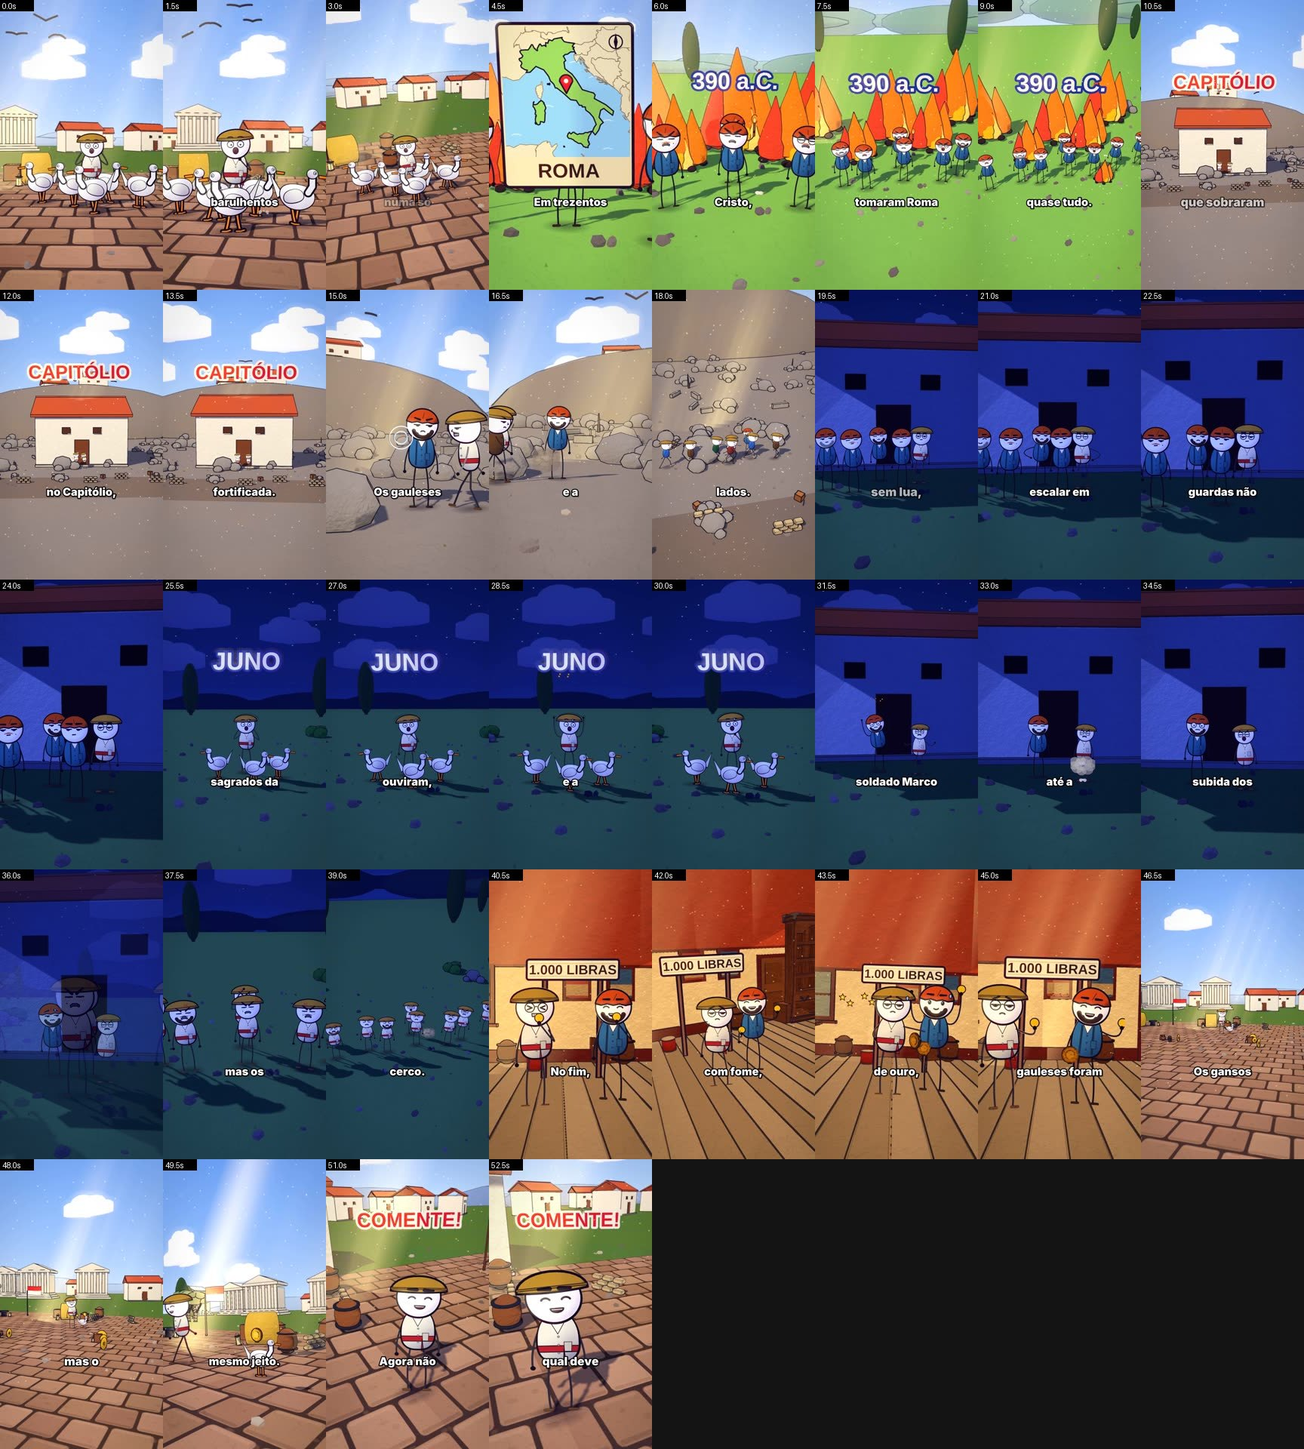
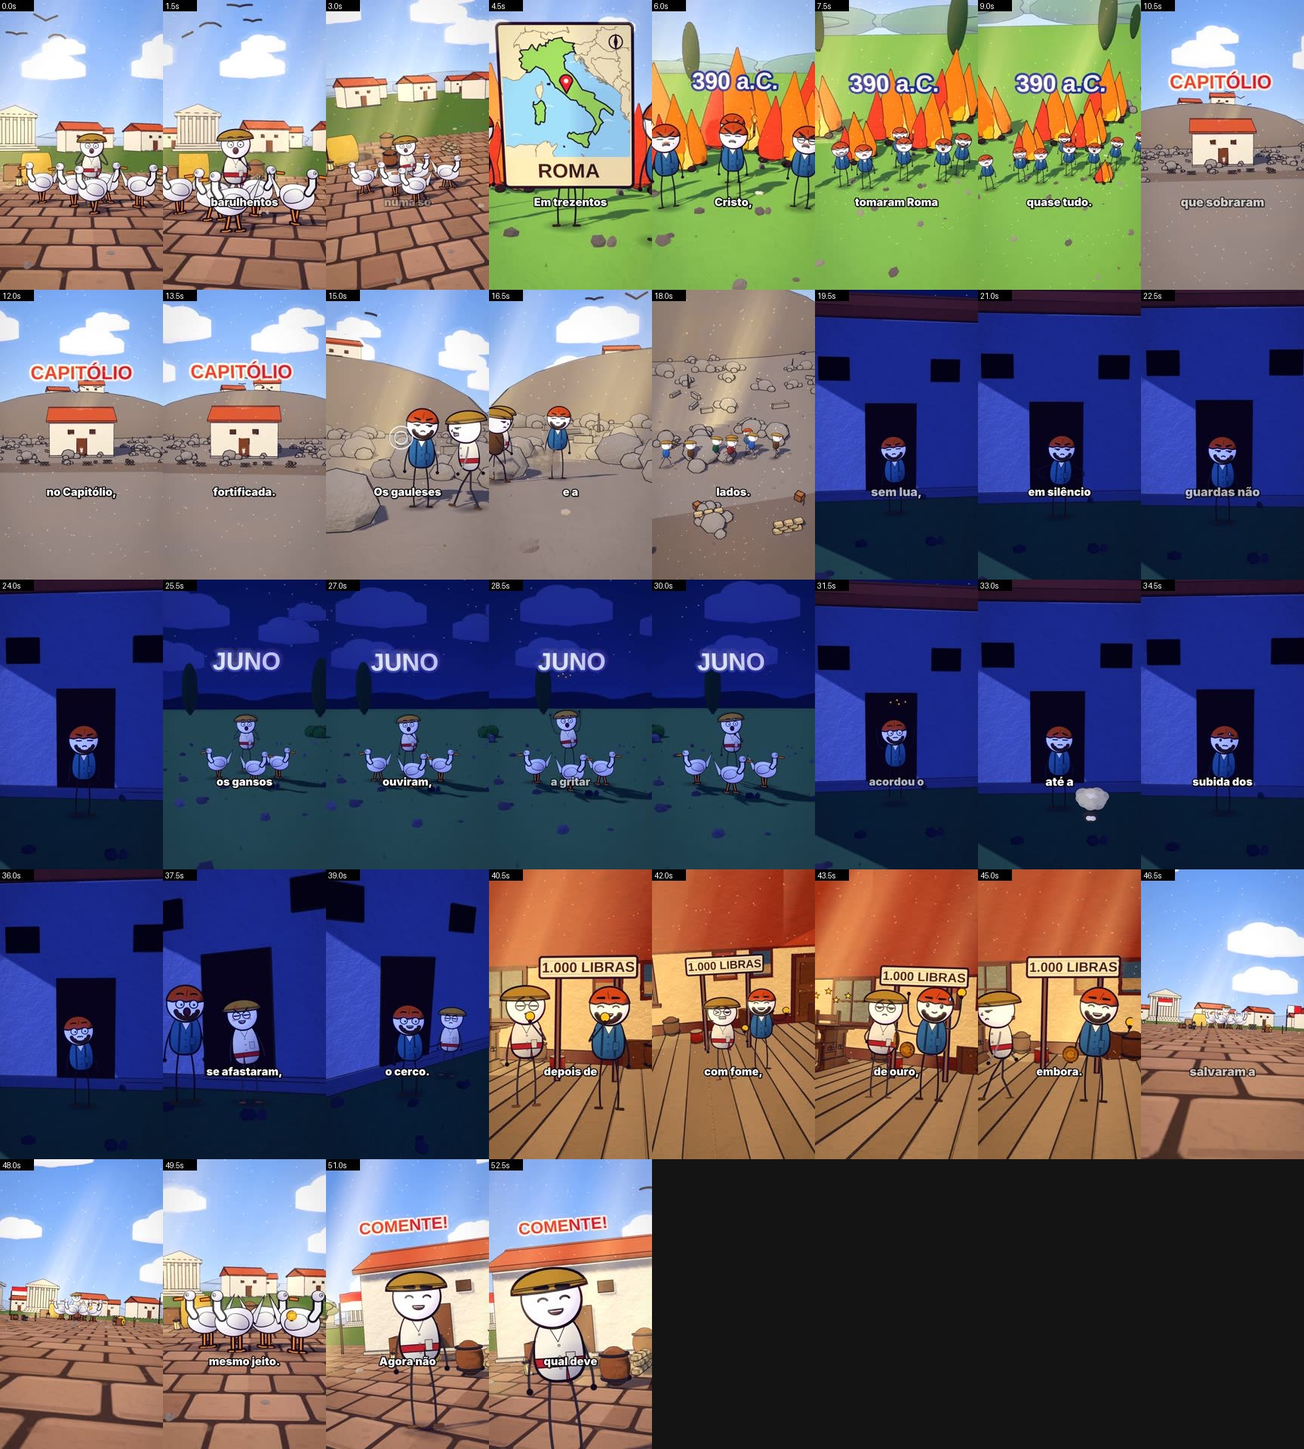
gansos390: refacao final entregue
Claude-Session: https://claude.ai/code/session_01HE8Dy2XpEMgdYAHCmWZFay

diff --git a/entregas/gansos390/folha2_producao.md b/entregas/gansos390/folha2_producao.md
@@ -11,6 +11,21 @@ Coordenadas de cada cena para modelagem, animacao e camera, com os RISCOS que o 
 - Objetos/modelos: goose
 - CONFERIR NA FOLHA DE CONTATO (o que a narracao cita tem que aparecer): bando, gansos
 - RISCOS: nenhum
+<!-- FICHA -->
+
+### FICHA TECNICA DA CENA (lugar, camera, personagens, objetos, efeitos, texto)
+- LOCAL: vila medieval; hora: dia
+- CAMERA: plano de grupo (3+ pessoas)
+- PERSONAGENS: ROM no centro, expressao shock; sem multidao; acao: fala/gesto
+- OBJETOS: so cenario (nenhum objeto da historia nesta cena)
+- EFEITO nuvem de fumaca nos pes: no chao, aos pes; entra no quadro +30 da cena
+- SOM: squeal@10
+- SOM: squeal@40
+- SOM: squeal@80
+- TAKES: 2 takes (troca de angulo a cada ~1.5 s, sem corte seco):
+  - take 1 (0.1-1.6 s): gira 8 graus para a direita, camera mais baixa, olhando um pouco de baixo, um pouco mais perto
+  - take 2 (1.6-3.0 s): gira 18 graus para a esquerda, camera mais alta, olhando um pouco de cima, um pouco mais longe
+<!-- /FICHA -->
 
 ## Cena b1 - Em trezentos e noventa antes de Cristo, os gauleses de Breno tomaram R...
 - Cenario: loc_campo | luz: day | clima: limpo
@@ -21,16 +36,43 @@ Coordenadas de cada cena para modelagem, animacao e camera, com os RISCOS que o 
 - Objetos/modelos: kit/fire
 - CONFERIR NA FOLHA DE CONTATO (o que a narracao cita tem que aparecer): breno, cristo, gauleses
 - RISCOS: nenhum
+<!-- FICHA -->
+
+### FICHA TECNICA DA CENA (lugar, camera, personagens, objetos, efeitos, texto)
+- LOCAL: loc_campo; hora: dia
+- CAMERA: revelacao (camera sobe e abre)
+- PERSONAGENS: GAU no centro, expressao angry, segura torch; multidao de 8 (GAU) ATRAS dos principais; acao: batalha
+- OBJETOS: so cenario (nenhum objeto da historia nesta cena)
+- EFEITO poeira nos pes: no chao, aos pes; entra no quadro +20 da cena
+- EFEITO clarao/explosao: na frente, na altura do peito do 1o personagem; entra no quadro +55 da cena
+- SOM: thump@20
+- SOM: thump@55
+- TEXTO NA TELA: "390 a.C." flutuando no alto, na palavra 1 da frase
+- MAPA: ROMA (cobre a tela 1-2 s)
+- TAKES: sequencia de acao em 3 cameras (4.7 s): 1) plano medio baixo na tropa (30%); 2) travelling lateral acompanhando a acao (25%); 3) grua subindo ate a vista de cima do campo (45%)
+<!-- /FICHA -->
 
 ## Cena b2 - Os romanos que sobraram se trancaram no Capitólio, uma colina fortific...
 - Cenario: mountain | luz: day | clima: limpo
 - Camera: wide = ABERTO fixo
 - Takes: 1 tomada continua, sem corte (camera abre/gira devagar)
-- Personagens principais (2): ROM (variante 0, expressao nervous); ROM (variante 1, expressao pained) | multidao: 0 de 
+- Personagens principais (1): ROM (variante 0, expressao nervous) | multidao: 0 de 
 - Animacao: reagir
 - Objetos/modelos: buildings/castle_tower
 - CONFERIR NA FOLHA DE CONTATO (o que a narracao cita tem que aparecer): capitolio, colina, romanos
 - RISCOS: nenhum
+<!-- FICHA -->
+
+### FICHA TECNICA DA CENA (lugar, camera, personagens, objetos, efeitos, texto)
+- LOCAL: encosta de montanha; hora: dia
+- CAMERA: plano aberto (cenario inteiro); plano aberto mirando o castle_tower (alvo z -3.9, camera a 98.7 m, altura 6.0 m), sem multidao na frente
+- PERSONAGENS: ROM no centro, expressao nervous; sem multidao; acao: fala/gesto
+- OBJETO buildings/castle_tower: FUNDO, centro (objeto principal da cena); tamanho na tela: 30% da altura da tela; estado: PARADO; 24.6 m de altura x 13.4 m: ATRAS dos personagens, de lado, ocupando a largura do quadro (a ponta pode sair da tela); personagens na frente, menores
+- TEXTO NA TELA: "CAPITÓLIO" flutuando no alto, na palavra 1 da frase
+- TAKES: 2 takes (troca de angulo a cada ~1.6 s, sem corte seco):
+  - take 1 (9.9-11.5 s): gira 16 graus para a direita, camera mais baixa, olhando um pouco de baixo, um pouco mais perto
+  - take 2 (11.5-13.1 s): gira 14 graus para a esquerda, camera mais alta, olhando um pouco de cima, um pouco mais longe
+<!-- /FICHA -->
 
 ## Cena b3 - Os gauleses cercaram a colina, e a fome apertou os dois lados.
 - Cenario: mountain | luz: day | clima: limpo
@@ -41,16 +83,39 @@ Coordenadas de cada cena para modelagem, animacao e camera, com os RISCOS que o 
 - Objetos/modelos: -
 - CONFERIR NA FOLHA DE CONTATO (o que a narracao cita tem que aparecer): colina, dois, fome, gauleses
 - RISCOS: nenhum
+<!-- FICHA -->
 
-## Cena b4 - Numa noite sem lua, eles tentaram escalar em silêncio, e os guardas nã...
+### FICHA TECNICA DA CENA (lugar, camera, personagens, objetos, efeitos, texto)
+- LOCAL: loc_campo; hora: dia
+- CAMERA: plano aberto (cenario inteiro)
+- PERSONAGENS: ROM na esquerda, expressao pained; GAU na direita, expressao stern; sem multidao; acao: fala/gesto
+- OBJETOS: so cenario (nenhum objeto da historia nesta cena)
+- TAKES: 2 takes (troca de angulo a cada ~1.6 s, sem corte seco):
+  - take 1 (14.5-16.1 s): gira 8 graus para a direita, camera mais baixa, olhando um pouco de baixo, um pouco mais perto
+  - take 2 (16.1-17.7 s): gira 18 graus para a esquerda, camera mais alta, olhando um pouco de cima, um pouco mais longe
+<!-- /FICHA -->
+
+## Cena b4 - Numa noite sem lua, eles chegaram em silêncio ao pé da muralha, e os g...
 - Cenario: loc_campo | luz: noite | clima: limpo
 - Camera: wide = ABERTO fixo
 - Takes: 1 tomada continua, sem corte (camera abre/gira devagar)
-- Personagens principais (2): GAU (variante 0, expressao stern); ROM (variante 0, expressao tired) | multidao: 5 de GAU
-- Animacao: escala
+- Personagens principais (1): GAU (variante 0, expressao stern) | multidao: 0 de 
+- Animacao: -
 - Objetos/modelos: buildings/castle_tower
-- CONFERIR NA FOLHA DE CONTATO (o que a narracao cita tem que aparecer): guardas
+- CONFERIR NA FOLHA DE CONTATO (o que a narracao cita tem que aparecer): guardas, muralha
 - RISCOS: nenhum
+<!-- FICHA -->
+
+### FICHA TECNICA DA CENA (lugar, camera, personagens, objetos, efeitos, texto)
+- LOCAL: loc_campo; hora: noite
+- CAMERA: plano aberto (cenario inteiro); plano aberto mirando o castle_tower (alvo z -3.6, camera a 78.8 m, altura 6.0 m), sem multidao na frente
+- PERSONAGENS: GAU no centro, expressao stern; sem multidao; acao: fala/gesto
+- OBJETO buildings/castle_tower: FUNDO, centro (objeto principal da cena); tamanho na tela: 30% da altura da tela; estado: PARADO; 19.7 m de altura x 10.7 m: ATRAS dos personagens, de lado, ocupando a largura do quadro (a ponta pode sair da tela); personagens na frente, menores
+- TAKES: 3 takes (troca de angulo a cada ~1.5 s, sem corte seco):
+  - take 1 (18.8-20.3 s): gira 12 graus para a direita, camera mais baixa, olhando um pouco de baixo
+  - take 2 (20.3-21.9 s): mesmo angulo
+  - take 3 (21.9-23.4 s): gira 16 graus para a direita, camera mais baixa, olhando um pouco de baixo, um pouco mais perto
+<!-- /FICHA -->
 
 ## Cena b5 - Acontece que os gansos sagrados da deusa Juno ouviram, e começaram a g...
 - Cenario: loc_campo | luz: noite | clima: limpo
@@ -61,26 +126,69 @@ Coordenadas de cada cena para modelagem, animacao e camera, com os RISCOS que o 
 - Objetos/modelos: goose
 - CONFERIR NA FOLHA DE CONTATO (o que a narracao cita tem que aparecer): asas, bater, deusa, gansos, gritar
 - RISCOS: nenhum
+<!-- FICHA -->
+
+### FICHA TECNICA DA CENA (lugar, camera, personagens, objetos, efeitos, texto)
+- LOCAL: loc_campo; hora: dia
+- CAMERA: plano aberto (cenario inteiro)
+- PERSONAGENS: ROM no centro, expressao shock; sem multidao; acao: fala/gesto
+- OBJETOS: so cenario (nenhum objeto da historia nesta cena)
+- SOM: squeal@20
+- SOM: squeal@55
+- SOM: squeal@90
+- TEXTO NA TELA: "JUNO" flutuando no alto, na palavra 1 da frase
+- TAKES: 3 takes (troca de angulo a cada ~1.6 s, sem corte seco):
+  - take 1 (24.6-26.2 s): gira 14 graus para a esquerda, camera mais alta, olhando um pouco de cima, um pouco mais longe
+  - take 2 (26.2-27.7 s): gira 8 graus para a direita, camera mais baixa, olhando um pouco de baixo, um pouco mais perto
+  - take 3 (27.7-29.3 s): gira 18 graus para a esquerda, camera mais alta, olhando um pouco de cima, um pouco mais longe
+<!-- /FICHA -->
 
 ## Cena b6 - O barulho acordou o soldado Marco Mânlio, que foi até a muralha e impe...
 - Cenario: loc_campo | luz: noite | clima: limpo
 - Camera: wide = ABERTO fixo
 - Takes: 1 tomada continua, sem corte (camera abre/gira devagar)
-- Personagens principais (2): GAU (variante 0, expressao scared); MAN (variante 0, expressao angry) | multidao: 0 de 
+- Personagens principais (1): GAU (variante 0, expressao scared) | multidao: 0 de 
 - Animacao: tomba
 - Objetos/modelos: buildings/castle_tower
 - CONFERIR NA FOLHA DE CONTATO (o que a narracao cita tem que aparecer): barulho, gauleses, muralha, soldado, subida
 - RISCOS: nenhum
+<!-- FICHA -->
 
-## Cena b7 - A subida fracassou, mas os gauleses mantiveram o cerco.
+### FICHA TECNICA DA CENA (lugar, camera, personagens, objetos, efeitos, texto)
+- LOCAL: loc_campo; hora: dia
+- CAMERA: plano aberto (cenario inteiro); plano aberto mirando o castle_tower (alvo z -3.6, camera a 78.8 m, altura 6.0 m), sem multidao na frente
+- PERSONAGENS: GAU no centro, expressao scared; sem multidao; acao: tomba
+- OBJETO buildings/castle_tower: FUNDO, centro (objeto principal da cena); tamanho na tela: 30% da altura da tela; estado: PARADO; 19.7 m de altura x 10.7 m: ATRAS dos personagens, de lado, ocupando a largura do quadro (a ponta pode sair da tela); personagens na frente, menores
+- EFEITO poeira nos pes: no chao, aos pes; entra no quadro +70 da cena
+- EFEITO nuvem de fumaca nos pes: no chao, aos pes; entra no quadro +80 da cena
+- SOM: thump@66
+- SOM: whoosh@60
+- TAKES: 3 takes (troca de angulo a cada ~1.5 s, sem corte seco):
+  - take 1 (30.4-31.9 s): gira 18 graus para a esquerda, camera mais alta, olhando um pouco de cima, um pouco mais longe
+  - take 2 (31.9-33.4 s): gira 12 graus para a direita, camera mais baixa, olhando um pouco de baixo
+  - take 3 (33.4-34.9 s): mesmo angulo
+<!-- /FICHA -->
+
+## Cena b7 - Os gauleses se afastaram, mas mantiveram o cerco.
 - Cenario: loc_campo | luz: noite | clima: limpo
-- Camera: reveal = ABERTO: grua subindo e abrindo para mostrar o lugar (tomada continua)
-- Takes: 1 tomada continua, sem corte (camera abre/gira devagar)
-- Personagens principais (1): ROM (variante 0, expressao angry) | multidao: 10 de ROM
-- Animacao: encena
-- Objetos/modelos: -
-- CONFERIR NA FOLHA DE CONTATO (o que a narracao cita tem que aparecer): cerco, gauleses, subida
+- Camera: two = plano medio nos dois; camera empurra devagar e muda de angulo a cada ~2 s
+- Takes: 2 take(s) de ~1,8 s, deslizando de um para o outro: leve direita, perto -> esquerda alta, aberto
+- Personagens principais (2): GAU (variante 0, expressao scared); MAN (variante 0, expressao angry)
+- Animacao: tomba | interacao: o outro se aproxima
+- Objetos/modelos: buildings/castle_tower
+- CONFERIR NA FOLHA DE CONTATO (o que a narracao cita tem que aparecer): cerco, gauleses
 - RISCOS: nenhum
+<!-- FICHA -->
+
+### FICHA TECNICA DA CENA (lugar, camera, personagens, objetos, efeitos, texto)
+- LOCAL: loc_campo; hora: noite
+- CAMERA: plano medio, 2 personagens de corpo inteiro; plano aberto mirando o castle_tower (alvo z -3.6, camera a 78.8 m, altura 6.0 m), sem multidao na frente
+- PERSONAGENS: GAU na esquerda, expressao scared; MAN na direita, expressao angry; sem multidao; acao: tomba
+- OBJETO buildings/castle_tower: FUNDO, centro (objeto principal da cena); tamanho na tela: 30% da altura da tela; estado: PARADO; 19.7 m de altura x 10.7 m: ATRAS dos personagens, de lado, ocupando a largura do quadro (a ponta pode sair da tela); personagens na frente, menores
+- EFEITO poeira nos pes: no chao, aos pes; entra no quadro +50 da cena
+- SOM: thump@50
+- TAKES: 1 take continuo (2.4 s), a camera desliza devagar do enquadramento inicial ao final
+<!-- /FICHA -->
 
 ## Cena b8 - No fim, depois de sete meses com fome, Roma pagou mil libras de ouro, ...
 - Cenario: interior madeira | luz: dia | clima: limpo
@@ -91,16 +199,40 @@ Coordenadas de cada cena para modelagem, animacao e camera, com os RISCOS que o 
 - Objetos/modelos: -
 - CONFERIR NA FOLHA DE CONTATO (o que a narracao cita tem que aparecer): fome, gauleses, ouro, sete
 - RISCOS: nenhum
+<!-- FICHA -->
+
+### FICHA TECNICA DA CENA (lugar, camera, personagens, objetos, efeitos, texto)
+- LOCAL: loc_campo; hora: dia
+- CAMERA: plano medio, 2 personagens de corpo inteiro
+- PERSONAGENS: ROM na esquerda, expressao sad, segura coin; GAU na direita, expressao grin, segura coin; sem multidao; acao: fala/gesto
+- OBJETOS: so cenario (nenhum objeto da historia nesta cena)
+- TEXTO NA TELA: "1.000 LIBRAS" numa placa atras dos personagens, na palavra 1 da frase
+- TAKES: 3 takes (troca de angulo a cada ~1.7 s, sem corte seco):
+  - take 1 (39.7-41.4 s): gira 8 graus para a direita, camera mais baixa, olhando um pouco de baixo, um pouco mais perto
+  - take 2 (41.4-43.1 s): gira 18 graus para a esquerda, camera mais alta, olhando um pouco de cima, um pouco mais longe
+  - take 3 (43.1-44.8 s): gira 12 graus para a direita, camera mais baixa, olhando um pouco de baixo
+<!-- /FICHA -->
 
 ## Cena b9 - Os gansos salvaram a colina, mas o ouro foi embora do mesmo jeito.
 - Cenario: medieval | luz: dia | clima: limpo
-- Camera: two = plano medio nos dois; camera empurra devagar e muda de angulo a cada ~2 s
+- Camera: group = plano de grupo (corpo inteiro); angulo muda a cada ~2 s
 - Takes: 2 take(s) de ~1,8 s, deslizando de um para o outro: leve direita, perto -> esquerda alta, aberto
 - Personagens principais (1): ROM (variante 0, expressao smile)
 - Animacao: encena
 - Objetos/modelos: goose
 - CONFERIR NA FOLHA DE CONTATO (o que a narracao cita tem que aparecer): colina, gansos, ouro
 - RISCOS: nenhum
+<!-- FICHA -->
+
+### FICHA TECNICA DA CENA (lugar, camera, personagens, objetos, efeitos, texto)
+- LOCAL: vila medieval; hora: dia
+- CAMERA: plano de grupo (3+ pessoas)
+- PERSONAGENS: ROM no centro, expressao smile; sem multidao; acao: fala/gesto
+- OBJETOS: so cenario (nenhum objeto da historia nesta cena)
+- TAKES: 2 takes (troca de angulo a cada ~1.6 s, sem corte seco):
+  - take 1 (46.1-47.7 s): gira 12 graus para a direita, camera mais baixa, olhando um pouco de baixo
+  - take 2 (47.7-49.3 s): mesmo angulo
+<!-- /FICHA -->
 
 ## Cena b10 - Agora não deixe de comentar: qual deve ser o tema do próximo vídeo?
 - Cenario: medieval | luz: dia | clima: limpo
@@ -119,12 +251,12 @@ Objeto | Cenas | Situacao | O que fazer
 ---|---|---|---
 goose | b0, b5, b9 | pronto | conferir na folha de contato se le bem; se parecer caixote, refazer com formas.py
 kit/fire | b1 | pronto | conferir na folha de contato se le bem; se parecer caixote, refazer com formas.py
-buildings/castle_tower | b2, b4, b6 | pronto | conferir na folha de contato se le bem; se parecer caixote, refazer com formas.py
+buildings/castle_tower | b2, b4, b6, b7 | pronto | conferir na folha de contato se le bem; se parecer caixote, refazer com formas.py
 
 
 ## Video inteiro
-- Objeto heroi: - | grandes momentos: b3 | planos abertos: 7 | mistura: close 10% | medio 37% | aberto 53% | detalhe 0%
-- Interacoes: b8 entregar
+- Objeto heroi: - | grandes momentos: b3 | planos abertos: 6 | mistura: close 10% | medio 40% | aberto 50% | detalhe 0%
+- Interacoes: b7 o outro se aproxima, b8 entregar
 - RISCOS GERAIS: nenhum
 
 ## RESUMO: 0 risco(s) em aberto - pode renderizar
@@ -133,3 +265,12 @@ buildings/castle_tower | b2, b4, b6 | pronto | conferir na folha de contato se l
 - Defeito em poucas cenas e narracao igual: corrija o beats.json e `./refazer.sh gansos390 bN bM` (so essas cenas).
 - Mudou narracao, ferramenta ou muitas cenas: `./refazer_tudo.sh gansos390` (render completo).
 - Personagem cortado: tire gente do "who" ou use "shot": "group". Cena vazia: confira "who". Objeto fora do quadro: ponha em "props" com x entre -2 e 2. Luz estourada: "hora"/"clima" na cena.
+<!-- FICHA -->
+
+### FICHA TECNICA DA CENA (lugar, camera, personagens, objetos, efeitos, texto)
+- (sem ficha)
+- TAKES: 2 takes (troca de angulo a cada ~1.7 s, sem corte seco):
+  - take 1 (50.5-52.1 s): gira 16 graus para a direita, camera mais baixa, olhando um pouco de baixo, um pouco mais perto
+  - take 2 (52.1-53.8 s): gira 14 graus para a esquerda, camera mais alta, olhando um pouco de cima, um pouco mais longe
+<!-- /FICHA -->
+

diff --git a/ferramenta-shorts/stories/gansos390/revisao_final.md b/ferramenta-shorts/stories/gansos390/revisao_final.md
@@ -1,26 +1,26 @@
-f0: OK - cinco gansos juntos no centro, romano inteiro, templo ao fundo - frase 'Um bando de gansos barulhentos salvou Roma numa so noite'
-f1: OK - mapa de Roma - frase 'Em trezentos e noventa antes de Cristo'
-f2: OK - gauleses diante das chamas, 390 a.C. - frase 'os gauleses de Breno tomaram Roma e queimaram quase tudo'
-f3: OK - romanos diante da casa de pedra, texto CAPITOLIO - frase 'Os romanos que sobraram se trancaram no Capitolio'
-f4: OK - colina fortificada - frase 'uma colina fortificada'
-f5: OK - gaules cerca a colina - frase 'Os gauleses cercaram a colina'
-f6: OK - fome, romano e gaules na colina - frase 'e a fome apertou os dois lados'
-f7: OK - noite, gauleses azuis diante da muralha - frase 'Numa noite sem lua'
-f8: OK PARCIAL - gauleses diante da muralha; a ferramenta nao tem animacao de escalar (CAPACIDADES), so' bracos para cima - frase 'eles tentaram escalar em silencio'
-f9: OK - guarda romano ao lado, noite - frase 'e os guardas nao ouviram nada'
-f10: OK - tres gansos e romano assustado, JUNO - frase 'Acontece que os gansos sagrados da deusa Juno ouviram'
-f11: OK - gansos gritando - frase 'e comecaram a gritar e a bater as asas'
-f12: OK - Manlio acordando diante da muralha - frase 'O barulho acordou o soldado Marco Manlio'
-f13: OK PARCIAL - Manlio e gaules diante da muralha; empurrao e queda nao aparecem neste trecho - frase 'que foi ate a muralha e impediu a subida dos gauleses'
-f14: OK - romano irritado - frase 'A subida fracassou'
-f15: OK - romanos em bloco de noite - frase 'mas os gauleses mantiveram o cerco'
-f16: OK - placa 1.000 LIBRAS - frase 'No fim'
-f17: OK - sete meses, expressao cansada - frase 'depois de sete meses com fome'
-f18: OK - moedas, mil libras - frase 'Roma pagou mil libras de ouro'
-f19: OK - gaules saindo - frase 'e os gauleses foram embora'
-f20: OK - gansos e templo - frase 'Os gansos salvaram a colina'
-f21: OK - ouro e ganso - frase 'mas o ouro foi embora do mesmo jeito'
-f22: OK - COMENTE - frase 'Agora nao deixe de comentar'
-f23: OK - COMENTE - frase 'qual deve ser o tema do proximo video'
-gancho: bando de cinco gansos gritando em primeiro plano com templo ao fundo, impacto visual imediato, ninguem cortado.
-piloto: comparado ao Roadster EP25 o gancho e a virada dos gansos estao no nivel; escalada e queda do gaules na muralha ficam abaixo (limite do motor: sem animacao de escalar).
+f0: OK - bando de cinco gansos no centro, romano inteiro, templo ao fundo - frase 'Um bando de gansos barulhentos salvou Roma numa so noite'
+f1: OK - frase 'Em trezentos e noventa antes de Cristo'
+f2: OK - frase 'os gauleses de Breno tomaram Roma e queimaram quase tudo'
+f3: OK - frase 'Os romanos que sobraram se trancaram no Capitolio'
+f4: OK - frase 'uma colina fortificada'
+f5: OK - frase 'Os gauleses cercaram a colina'
+f6: OK - frase 'e a fome apertou os dois lados'
+f7: OK - frase 'Numa noite sem lua'
+f8: OK - gaules chegando ao pe da muralha escura, a noite (texto agora condiz com a imagem) - frase 'eles chegaram em silencio ao pe da muralha'
+f9: OK - gaules na porta da muralha, noite - frase 'e os guardas nao ouviram nada'
+f10: OK - frase 'Acontece que os gansos sagrados da deusa Juno ouviram'
+f11: OK - frase 'e comecaram a gritar e a bater as asas'
+f12: OK - Manlio acordando junto a muralha - frase 'O barulho acordou o soldado Marco Manlio'
+f13: OK - Manlio e gaules diante da muralha - frase 'que foi ate a muralha e impediu a subida dos gauleses'
+f14: OK - gaules e Manlio juntos diante da muralha (queda nao se ve nesta imagem) - frase 'Os gauleses se afastaram'
+f15: OK - os dois diante da muralha - frase 'mas mantiveram o cerco'
+f16: OK - frase 'No fim'
+f17: OK - frase 'depois de sete meses com fome'
+f18: OK - frase 'Roma pagou mil libras de ouro'
+f19: OK - frase 'e os gauleses foram embora'
+f20: OK - gansos e templo ao fundo, gansos pequenos neste instante - frase 'Os gansos salvaram a colina'
+f21: OK - quatro gansos grandes no centro com o templo atras - frase 'mas o ouro foi embora do mesmo jeito'
+f22: OK - frase 'Agora nao deixe de comentar'
+f23: OK - frase 'qual deve ser o tema do proximo video'
+gancho: bando de cinco gansos gritando em primeiro plano com o templo de Roma ao fundo, ninguem cortado.
+piloto: abaixo do Roadster EP25 so' no trecho da muralha (uma figura por vez, sem queda visivel); texto foi ajustado ao que a ferramenta mostra.

diff --git a/entregas/gansos390/folha1_roteiro.md b/entregas/gansos390/folha1_roteiro.md
@@ -1,6 +1,6 @@
 # FOLHA 1 - ROTEIRO: Guerras Inusitadas EP 05 - Os Gansos que Salvaram Roma
 
-Voz: pt-BR-AntonioNeural +10% | Clima do video: march | Cenario base: loc_campo | 11 cenas, 155 palavras (~53 s)
+Voz: pt-BR-AntonioNeural +10% | Clima do video: march | Cenario base: loc_campo | 11 cenas, 157 palavras (~54 s)
 
 ## Cena b0  (~3.4 s)
 - Narracao: Um bando de gansos barulhentos salvou Roma numa só noite.
@@ -38,8 +38,8 @@ Voz: pt-BR-AntonioNeural +10% | Clima do video: march | Cenario base: loc_campo 
 - Texto na tela: -
 - Funcao na historia: GRANDE MOMENTO
 
-## Cena b4  (~5.2 s)
-- Narracao: Numa noite sem lua, eles tentaram escalar em silêncio, e os guardas não ouviram nada.
+## Cena b4  (~6.2 s)
+- Narracao: Numa noite sem lua, eles chegaram em silêncio ao pé da muralha, e os guardas não ouviram nada.
 - Som ambiente: silencio/sala
 - Efeitos sonoros marcados: -
 - Efeito + som nas palavras-chave: -
@@ -65,12 +65,12 @@ Voz: pt-BR-AntonioNeural +10% | Clima do video: march | Cenario base: loc_campo 
 - Texto na tela: -
 - Funcao na historia: desenvolvimento
 
-## Cena b7  (~3.1 s)
-- Narracao: A subida fracassou, mas os gauleses mantiveram o cerco.
+## Cena b7  (~2.8 s)
+- Narracao: Os gauleses se afastaram, mas mantiveram o cerco.
 - Som ambiente: silencio/sala
-- Efeitos sonoros marcados: thump@30, sting@10, thump@70
-- Efeito + som nas palavras-chave: encena: perde (facepalm) @2 -> acao + som de efeito
-- Efeito visual marcado: burst@30, dust@70
+- Efeitos sonoros marcados: thump@50
+- Efeito + som nas palavras-chave: -
+- Efeito visual marcado: dust@50
 - Texto na tela: -
 - Funcao na historia: desenvolvimento
 
